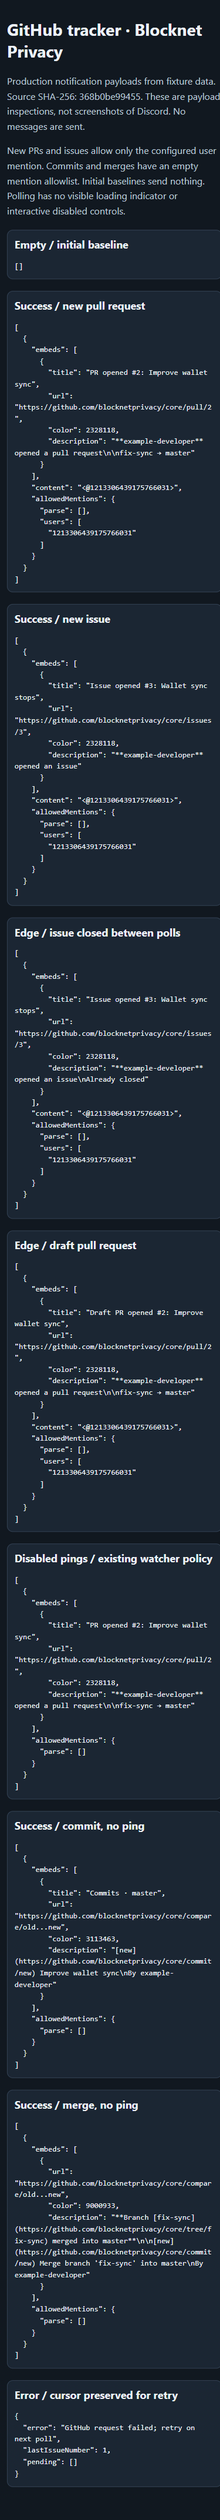
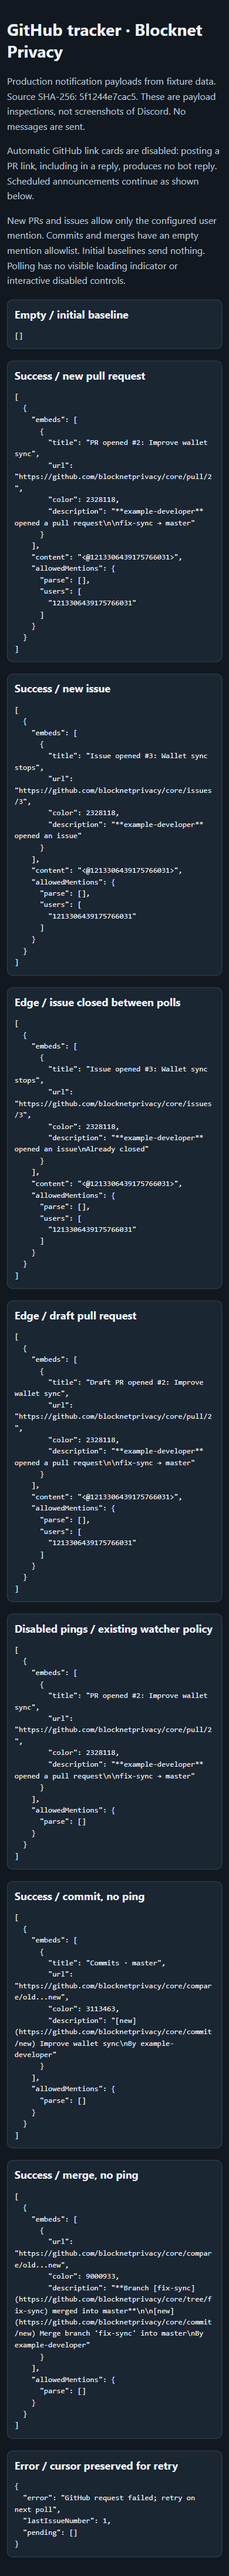
Stop automatic GitHub PR link preview replies

Changed region(s): [[0.0293, 0.0, 0.968, 0.9998], [0.8507, 0.7498, 0.9093, 0.7811]]

diff --git a/lib/GitHubCommitWatch.ts b/lib/GitHubCommitWatch.ts
@@ -1,4 +1,3 @@
-import { canProcessMessage } from './Privacy.js';
 import { APIEmbed, Client, escapeMarkdown, MessageCreateOptions } from 'discord.js';
 import fetch from 'node-fetch';
 import { promises as fs } from 'fs';
@@ -336,42 +335,6 @@ export async function planIssues(state: WatchState, request: Request): Promise<W
     return { ...state, lastIssueNumber: latest, pending };
 }
 
-export function pullRequestLinks(content: string, repository: string): number[] {
-    const numbers = new Set<number>();
-    for (const match of content.matchAll(/https:\/\/github\.com\/[^\s<>]+/gi)) {
-        // Respect Discord's explicit <url> preview suppression.
-        if (match.index !== undefined && content[match.index - 1] === '<') continue;
-        const url = new URL(match[0]);
-        const parts = url.pathname.split('/');
-        if (`${parts[1]}/${parts[2]}`.toLowerCase() !== repository.toLowerCase() || parts[3] !== 'pull') continue;
-        const number = /^([1-9]\d*)(?:[).,!?]*)$/.exec(parts[4] || '');
-        if (number && Number.isSafeInteger(Number(number[1]))) numbers.add(Number(number[1]));
-        if (numbers.size === 3) break;
-    }
-    return [...numbers];
-}
-
-export async function previewPullRequests(content: string, repository: string, request: Request): Promise<APIEmbed[]> {
-    const embeds: APIEmbed[] = [];
-    for (const number of pullRequestLinks(content, repository)) {
-        try {
-            const pull: OpenedPullRequest & { body?: string | null } = await request(`/pulls/${number}`);
-            const status = pull.merged_at ? 'Merged' : pull.state === 'closed' ? 'Closed' : pull.draft ? 'Draft' : 'Open';
-            const avatar = pull.user?.avatar_url;
-            embeds.push({
-                title: `PR #${number}: ${pull.title}`.slice(0, 256),
-                url: `https://github.com/${repository}/pull/${number}`,
-                color: pull.merged_at ? 0x8957e5 : pull.state === 'closed' ? 0xda3633 : 0x238636,
-                description: `**${status}** · ${plain(pull.user?.login || 'Unknown author', 70)}\n${plain(pull.head.ref, 100)} → ${plain(pull.base.ref, 100)}${pull.body?.trim() ? `\n\n${plain(pull.body.trim(), 350)}` : ''}`,
-                ...(avatar && /^https:\/\/avatars\.githubusercontent\.com\//.test(avatar) ? { thumbnail: { url: avatar } } : {}),
-            });
-        } catch (error) {
-            console.warn(`[GitHub watch] Could not preview PR #${number}: ${(error as Error).message}`);
-        }
-    }
-    return embeds;
-}
-
 export async function saveState(path: string, state: WatchState): Promise<void> {
     await fs.mkdir(dirname(path), { recursive: true, mode: 0o700 });
     await fs.writeFile(`${path}.tmp`, JSON.stringify(state), { mode: 0o600 });
@@ -412,13 +375,6 @@ export function startGitHubCommitWatch(client: Client): void {
             if (!response.ok) throw Object.assign(new Error(`GitHub HTTP ${response.status}; check repository access, token expiry, and rate limits.`), { status: response.status });
             return response.json();
         };
-        client.on('messageCreate', message => {
-            if (!canProcessMessage(message) || message.author.bot || message.channelId !== threadId) return;
-            void (async () => {
-                const embeds = await previewPullRequests(message.content, repository, request);
-                if (embeds.length) await message.reply({ embeds, allowedMentions: { parse: [], repliedUser: false } });
-            })().catch(error => console.error(`[GitHub watch] ${repository} link preview failed:`, error.message));
-        });
         const poll = async () => {
             try {
                 const channel = await client.channels.fetch(threadId);

diff --git a/docs/github-commit-watch.md b/docs/github-commit-watch.md
@@ -50,7 +50,7 @@ Configuration is read from `~/.config/dave-github-watch.json`, or the path in
 ```
 
 `additionalRepositories` is optional. Every repository receives the same commit,
-branch, merge, PR-opening, and link-preview behavior. Set `trackIssues: true` on a destination to also track new issues. Destinations can share a
+branch, merge, and PR-opening behavior. Set `trackIssues: true` on a destination to also track new issues. Destinations can share a
 thread or use separate guild text channels or threads (`threadId` accepts either). Each watcher polls and retries independently;
 a failed check for one repository does not stop another. Duplicate repository and
 thread pairs are rejected to prevent duplicate notifications.
@@ -98,13 +98,9 @@ include closed PRs so PRs opened and closed/merged between polls are still shown
 with their current status noted. Reopening or editing an existing PR does not
 produce another opening notification. This requires Pull requests: read access.
 
-Human-posted GitHub PR links in the configured thread receive a reply with a
-private-repository preview: title/link, current status, author avatar, branches,
-and a short description. Only repositories configured for that thread are expanded. Bot messages
-are ignored, repeated links in one message are deduplicated, and at most three
-PRs per repository are previewed per message. Angle-bracket links (`<https://...>`) suppress
-previews. Preview replies never ping the sender. No public OpenGraph service is
-used, and private PR details are not expanded in other channels.
+Human-posted GitHub links do not trigger automatic bot cards or replies, including
+links posted in replies. New PR, issue, commit, and merge announcements continue
+through the polling watcher. Discord may still show its own native link previews.
 
 PR merges use the same linked branch heading as other merges, followed by one
 compact merger/PR metadata line. Mixed-author PR merge batches may use the
@@ -130,7 +126,7 @@ The shared production configuration additionally watches `blocknetprivacy/core`,
 
 Add one entry per repository to `additionalRepositories`. These watches post to
 `#clonehigh` and ping `justthedeveloper` only for new PRs (including drafts) and
-new issues. Commits, merges, branches and PR previews never ping. Discord allowed
+new issues. Commits, merges, and branches never ping. Discord allowed
 mentions explicitly permits only this user on opening notifications. Pooners and
 round-and-round retain their existing configuration and silent notifications.
 

diff --git a/docs/showcases/github-watch/README.md b/docs/showcases/github-watch/README.md
@@ -10,8 +10,9 @@ and sends no Discord messages.
 Reviewed captures: [desktop](desktop.png) at 1440px and [mobile](mobile.png) at
 390px. Both cover initial empty baseline, new PR, new issue, closed-between-polls
 issue, draft PR, disabled pings, silent commit, silent merge, and retryable error.
-The tracker has no visible loading state or disabled controls. No horizontal
+The page also records that automatic link cards are disabled for posted links and
+replies. The tracker has no visible loading state or disabled controls. No horizontal
 overflow was observed on mobile. Browser tabs were closed after capture.
 
-Implementation fingerprint: `GitHubCommitWatch.ts` SHA-256 `368b0be99455`
+Implementation fingerprint: `GitHubCommitWatch.ts` SHA-256 `5f1244e7cac5`
 (displayed in both captures). Fixtures contain no credentials or private data.
